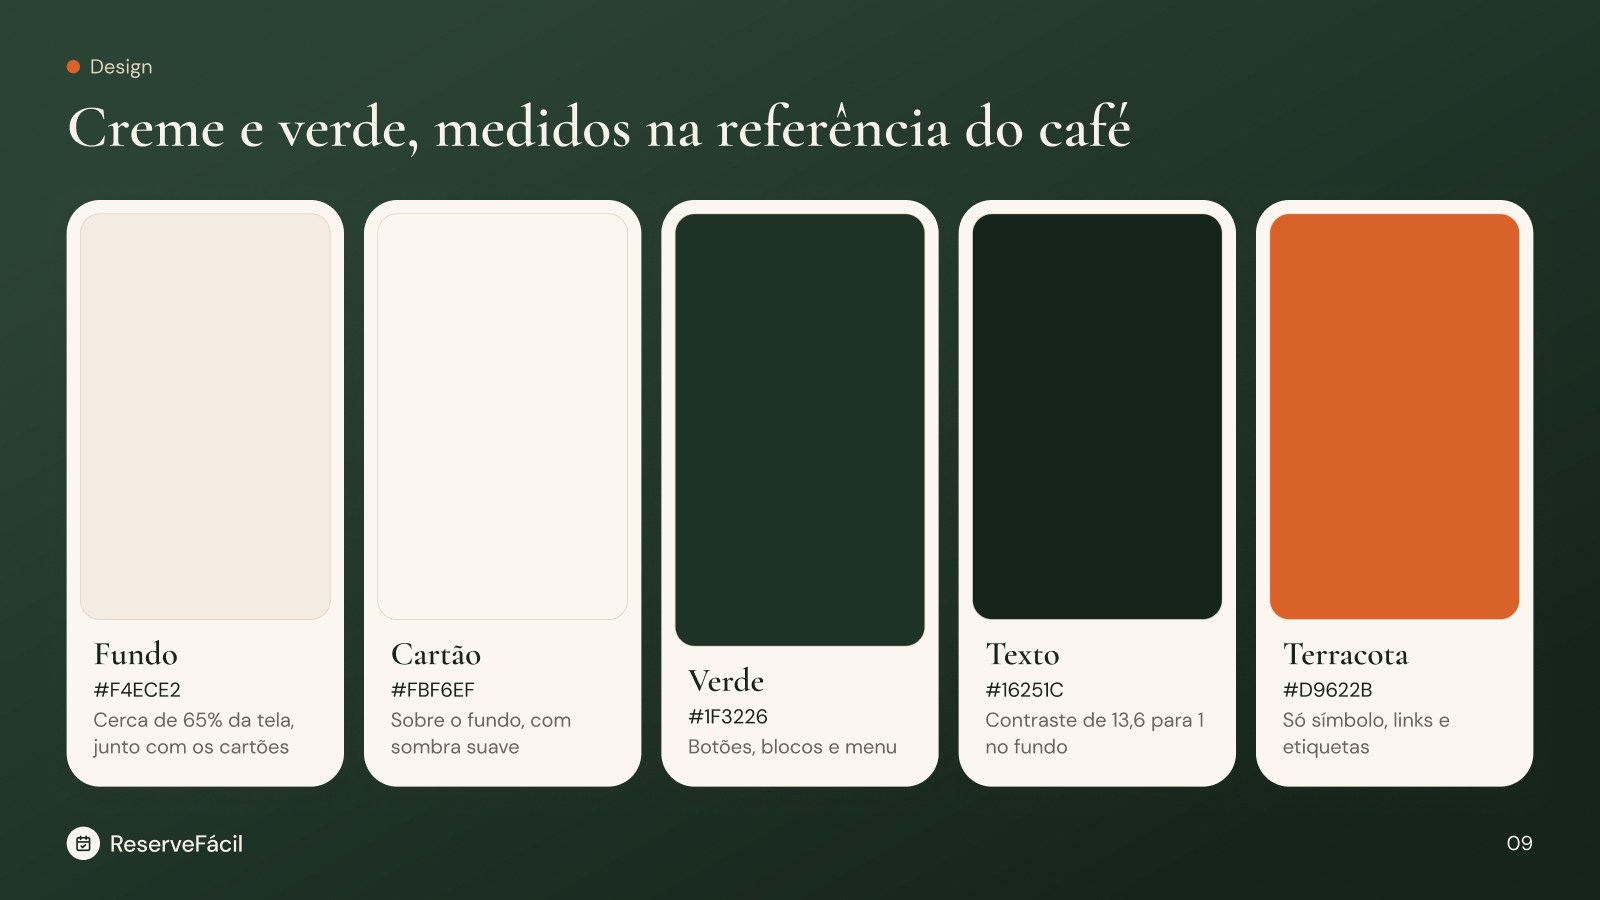
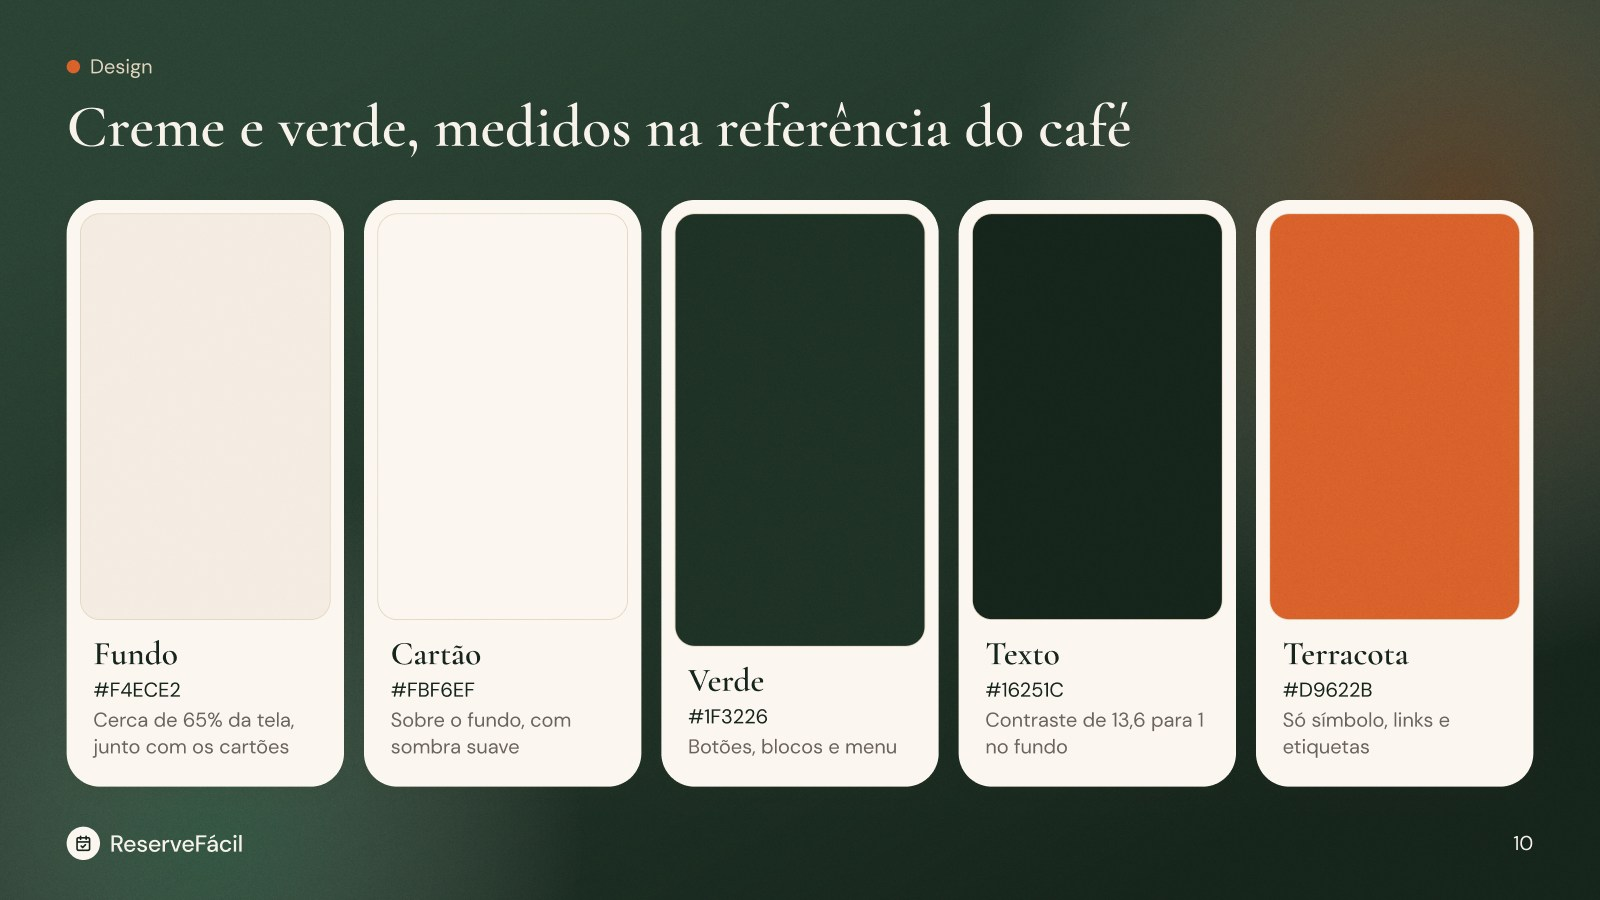
docs: make version 2 official with dark mode and new slides
The owner approved the richer version: tablet landscape staff screens,
dark mode, new cover and 13 slides. Record decision 15, refresh the
README images and document the new design system pieces. The previous
Figma pages stay as backup.

Changed region(s): [[0.7188, 0.0, 1.0, 0.5289], [0.0, 0.84, 0.2812, 1.0]]

diff --git a/pipeline/STATE.md b/pipeline/STATE.md
@@ -4,7 +4,7 @@ Leia antes de qualquer tarefa. Atualize ao fim de cada sessão.
 
 **Onde parou:** etapa 1 aprovada pelo dono em [vision.md](01-problem-and-vision/vision.md); etapa 2 aprovada em [journeys.md](02-journeys/journeys.md). Marca Ulivo definida ([decisão 1](decisions/interface/0001-marca-ulivo-cores-e-fontes.md)).
 
-**Próximo passo:** alta fidelidade das 17 telas aprovada pelo dono em 09/11/2026 ([decisão 13](decisions/interface/0013-alta-fidelidade-aprovada-destaque-verde.md)). Capa e apresentação de 12 slides prontas no Figma. O protótipo clicável foi dispensado ([decisão 14](decisions/processo-de-trabalho/0014-prototipo-sem-cliques-e-alvo-de-toque.md)) e o resto ficou para a [próxima versão](04e-high-fidelity/proxima-versao.md). Etapa 3 aprovada em [scope.md](03-mvp-scope/scope.md).
+**Próximo passo:** versão 2 oficial na capa, nas telas (claro e escuro) e nos 13 slides ([decisão 15](decisions/interface/0015-versao-2-oficial-com-modo-escuro.md)). A versão anterior fica nas páginas de backup do Figma. O que falta está na [próxima versão](04e-high-fidelity/proxima-versao.md). Etapa 3 aprovada em [scope.md](03-mvp-scope/scope.md).
 
 | Etapa | Estado | Data |
 |---|---|---|
@@ -18,4 +18,4 @@ Leia antes de qualquer tarefa. Atualize ao fim de cada sessão.
 | 8. Testes | aguardando | |
 | 9. Entrega | aguardando | |
 
-**Decisões em vigor:** [1](decisions/interface/0001-marca-ulivo-cores-e-fontes.md), [2](decisions/produto/0002-saas-reservafacil-prototipo-para-o-ulivo.md), [3](decisions/produto/0003-aviso-ao-cliente-por-whatsapp.md), [4](decisions/processo-de-trabalho/0004-projeto-termina-no-prototipo-de-alta-fidelidade.md), [5](decisions/produto/0005-escopo-agora-so-o-que-o-pdf-exige.md), [6](decisions/produto/0006-login-por-perfil-e-regra-de-negocio.md), [7](decisions/interface/0007-design-system-com-variaveis-e-dois-modos.md), [8](decisions/interface/0008-laranja-so-destaque-botao-principal-verde.md), [9](decisions/interface/0009-alta-fidelidade-com-vidro-e-fotos.md), [10](decisions/interface/0010-composicao-rica-nas-telas.md), [12](decisions/interface/0012-creme-e-verde-medidos-na-referencia-do-cafe.md), [13](decisions/interface/0013-alta-fidelidade-aprovada-destaque-verde.md), [14](decisions/processo-de-trabalho/0014-prototipo-sem-cliques-e-alvo-de-toque.md). **Pendências do dono:** nenhuma.
+**Decisões em vigor:** [1](decisions/interface/0001-marca-ulivo-cores-e-fontes.md), [2](decisions/produto/0002-saas-reservafacil-prototipo-para-o-ulivo.md), [3](decisions/produto/0003-aviso-ao-cliente-por-whatsapp.md), [4](decisions/processo-de-trabalho/0004-projeto-termina-no-prototipo-de-alta-fidelidade.md), [5](decisions/produto/0005-escopo-agora-so-o-que-o-pdf-exige.md), [6](decisions/produto/0006-login-por-perfil-e-regra-de-negocio.md), [7](decisions/interface/0007-design-system-com-variaveis-e-dois-modos.md), [8](decisions/interface/0008-laranja-so-destaque-botao-principal-verde.md), [9](decisions/interface/0009-alta-fidelidade-com-vidro-e-fotos.md), [10](decisions/interface/0010-composicao-rica-nas-telas.md), [12](decisions/interface/0012-creme-e-verde-medidos-na-referencia-do-cafe.md), [13](decisions/interface/0013-alta-fidelidade-aprovada-destaque-verde.md), [14](decisions/processo-de-trabalho/0014-prototipo-sem-cliques-e-alvo-de-toque.md), [15](decisions/interface/0015-versao-2-oficial-com-modo-escuro.md). **Pendências do dono:** nenhuma.

diff --git a/README.md b/README.md
@@ -16,15 +16,17 @@ Este repositório é um trabalho da faculdade e termina no protótipo de alta fi
 
 | O quê | Link |
 |---|---|
-| Capa | [Abrir](https://www.figma.com/design/HXJrsNhPSf2iC8GyJBqwi2/ReserveFacil?node-id=98-4378) |
-| Alta fidelidade, 17 telas | [Abrir](https://www.figma.com/design/HXJrsNhPSf2iC8GyJBqwi2/ReserveFacil?node-id=27-16) |
-| Apresentação, 12 slides | [Abrir](https://www.figma.com/design/HXJrsNhPSf2iC8GyJBqwi2/ReserveFacil?node-id=95-167) |
+| Capa | [Abrir](https://www.figma.com/design/HXJrsNhPSf2iC8GyJBqwi2/ReserveFacil?node-id=107-6054) |
+| Alta fidelidade, 17 telas | [Modo claro](https://www.figma.com/design/HXJrsNhPSf2iC8GyJBqwi2/ReserveFacil?node-id=107-2298) e [modo escuro](https://www.figma.com/design/HXJrsNhPSf2iC8GyJBqwi2/ReserveFacil?node-id=114-2310) |
+| Apresentação, 13 slides | [Abrir](https://www.figma.com/design/HXJrsNhPSf2iC8GyJBqwi2/ReserveFacil?node-id=107-5186) |
 | Design system | [Abrir](https://www.figma.com/design/HXJrsNhPSf2iC8GyJBqwi2/ReserveFacil?node-id=22-2) |
 | Wireframe | [Abrir](https://www.figma.com/design/HXJrsNhPSf2iC8GyJBqwi2/ReserveFacil?node-id=5-26) |
 
 ## O problema
 
 Restaurantes que recebem pedidos por telefone, mensagem ou no balcão sofrem com reservas duplicadas, informação perdida e dificuldade para alterar ou cancelar. O ReserveFácil reúne tudo num sistema só.
+
+![O problema](docs/img/problema.jpg)
 
 ## As telas
 
@@ -40,6 +42,10 @@ Restaurantes que recebem pedidos por telefone, mensagem ou no balcão sofrem com
 
 ![Telas do gerente](docs/img/telas-gerente.jpg)
 
+## Modo escuro
+
+![Modo claro e modo escuro](docs/img/modo-escuro.jpg)
+
 ## Casos de uso
 
 Diagramas originais do levantamento de requisitos ([texto completo](docs/requisitos-reservefacil.md)).
@@ -50,7 +56,7 @@ Diagramas originais do levantamento de requisitos ([texto completo](docs/requisi
 
 ## Design
 
-Creme e verde, com as cores medidas nas referências do café ([decisão 12](pipeline/decisions/interface/0012-creme-e-verde-medidos-na-referencia-do-cafe.md)). Detalhes em [docs/design-system.md](docs/design-system.md).
+Creme e verde, com as cores medidas nas referências do café ([decisão 12](pipeline/decisions/interface/0012-creme-e-verde-medidos-na-referencia-do-cafe.md)), com modo escuro e painéis ricos ([decisão 15](pipeline/decisions/interface/0015-versao-2-oficial-com-modo-escuro.md)). Detalhes em [docs/design-system.md](docs/design-system.md).
 
 ![Cores do produto](docs/img/cores.jpg)
 
@@ -60,7 +66,7 @@ Creme e verde, com as cores medidas nas referências do café ([decisão 12](pip
 
 ![Primeiro slide da apresentação](docs/img/apresentacao-capa.jpg)
 
-São 12 slides para apresentar o produto, com o roteiro de fala em [apresentacao.md](pipeline/04e-high-fidelity/apresentacao.md).
+São 13 slides para apresentar o produto, com o roteiro de fala em [apresentacao.md](pipeline/04e-high-fidelity/apresentacao.md).
 
 ## Próxima versão
 

diff --git a/pipeline/decisions/interface/0015-versao-2-oficial-com-modo-escuro.md b/pipeline/decisions/interface/0015-versao-2-oficial-com-modo-escuro.md
@@ -1,0 +1,31 @@
+---
+numero: 15
+titulo: Versão 2 oficial, com painéis ricos e modo escuro
+data: 2026-11-09
+estado: em-vigor
+links: [https://www.figma.com/design/HXJrsNhPSf2iC8GyJBqwi2/ReserveFacil?node-id=107-2298]
+substitui: []
+substituida_por: []
+relacionadas: [12, 13, 14]
+---
+
+# 15. Versão 2 oficial, com painéis ricos e modo escuro
+
+**Estado:** em vigor. Relacionada à [12](0012-creme-e-verde-medidos-na-referencia-do-cafe.md), à [13](0013-alta-fidelidade-aprovada-destaque-verde.md) e à [14](../processo-de-trabalho/0014-prototipo-sem-cliques-e-alvo-de-toque.md).
+
+**Links:** [Alta fidelidade](https://www.figma.com/design/HXJrsNhPSf2iC8GyJBqwi2/ReserveFacil?node-id=107-2298), [modo escuro](https://www.figma.com/design/HXJrsNhPSf2iC8GyJBqwi2/ReserveFacil?node-id=114-2310), [apresentação](https://www.figma.com/design/HXJrsNhPSf2iC8GyJBqwi2/ReserveFacil?node-id=107-5186)
+
+## Decisão
+
+A versão 2 é a oficial na capa, nas telas e nos slides. A versão anterior fica como backup nas últimas páginas do Figma.
+
+- **Telas do atendente** em tablet deitado, 1366 x 1024. A Nova reserva vira um fluxo único: quem e quando, escolha da mesa e um bilhete de resumo ao lado.
+- **Painéis** com indicadores em degradê, medidores circulares, gráfico de área preenchido e tabelas com ícone, avatar, barra e etiqueta em todas as telas.
+- **Gráfico de área** mostra o balão com duas linhas tracejadas no ponto. **Medidor circular** começa em degradê.
+- **Modo escuro** como terceiro modo de cor, com fotos noturnas, camadas de profundidade, luzes, grão e tons de sálvia e latão. O brilho é discreto, porque é um restaurante.
+- **Modo claro** com o mesmo acabamento, em tons quentes.
+- **Foto em cartão** some por transparência real na própria imagem, sem faixa de cor por cima.
+
+## Por quê
+
+O dono pediu um design mais vivo, inspirado na capa do painel azul das referências, no portfólio verde e no pack de artes, sem mudar a identidade. Depois de revisar, disse que ficou excelente e pediu que esta versão fosse a oficial.

diff --git a/pipeline/04e-high-fidelity/apresentacao.md b/pipeline/04e-high-fidelity/apresentacao.md
@@ -1,6 +1,6 @@
 # Apresentação do produto
 
-Página "Apresentação" no [Figma](https://www.figma.com/design/HXJrsNhPSf2iC8GyJBqwi2/ReserveFacil?node-id=95-167). São 12 slides em 1920 x 1080, no estilo da apresentação do iCloset e feitos com o design system. Para apresentar, abra a página e use o modo de apresentação do Figma.
+Página "Apresentação" no [Figma](https://www.figma.com/design/HXJrsNhPSf2iC8GyJBqwi2/ReserveFacil?node-id=107-5186). São 13 slides em 1920 x 1080, feitos com o design system. Para apresentar, abra a página e use o modo de apresentação do Figma. A versão anterior está em "Backup: Apresentação".
 
 | Slide | O que falar |
 |---|---|
@@ -12,9 +12,10 @@ Página "Apresentação" no [Figma](https://www.figma.com/design/HXJrsNhPSf2iC8G
 | 06 Jornada | O cliente vê a próxima reserva, escolhe a mesa, confirma, recebe no WhatsApp e acompanha. |
 | 07 Atendente | Reservas do dia no tablet, com check-in e ausência, e nova reserva para quem liga. |
 | 08 Gerente | Mesas e relatórios no computador. |
-| 09 Cores | Creme e verde medidos na referência do café. Terracota só em detalhes. |
-| 10 Design system | Duas fontes, 26 famílias de componentes, 48 ícones e grade de 4. |
-| 11 Garantias | Sem duplicidade, capacidade, tolerância, aviso, privacidade e perfis. |
-| 12 Encerramento | Agradecimento e o que vem na próxima versão. |
+| 09 Modo escuro | O mesmo produto de dia e à noite, com fotos noturnas. |
+| 10 Cores | Creme e verde medidos na referência do café. Terracota só em detalhes. |
+| 11 Design system | Duas fontes, 27 famílias de componentes, 48 ícones e grade de 4. |
+| 12 Garantias | Sem duplicidade, capacidade, tolerância, aviso, privacidade e perfis. |
+| 13 Encerramento | Agradecimento e o que vem na próxima versão. |
 
 Os diagramas dos slides 04 e 05 são as imagens originais extraídas do PDF do trabalho. O aviso por WhatsApp é simulado neste protótipo.

diff --git a/pipeline/04-wireframe/design-rules.md b/pipeline/04-wireframe/design-rules.md
@@ -7,7 +7,7 @@ Valem para o wireframe e a alta fidelidade. A marca está em [padrao-visual.md](
 | Quem | Aparelho | Tamanho |
 |---|---|---|
 | Cliente | celular | 390 x 960 |
-| Atendente | tablet | 1024 x 768 |
+| Atendente | tablet deitado | 1366 x 1024 |
 | Gerente | computador | 1440 x 900 |
 
 ## Wireframe
@@ -31,6 +31,10 @@ Cores medidas nas imagens de referência do café ([decisão 12](../decisions/in
 - **Quadro que contém sombra fica sem recorte.** Só a tela e o quadro arredondado com foto recortam.
 - **Fontes:** Cormorant Garamond para títulos e marca, DM Sans para o resto. Número com o algarismo 1 nunca em Cormorant: o 1 dela parece um I.
 - **Fotos com luz do dia**, fundo claro e cor quente. A foto do topo funde com o creme.
+
+## Versão 2 oficial
+
+Modo claro e modo escuro, com painéis ricos ([decisão 15](../decisions/interface/0015-versao-2-oficial-com-modo-escuro.md)). Foto em cartão some por transparência real. Brilho sempre discreto. Regras completas em [design-system.md](../../docs/design-system.md).
 
 ## Espaçamento (hierarquia, do menor para o maior)
 

diff --git a/pipeline/04e-high-fidelity/proxima-versao.md b/pipeline/04e-high-fidelity/proxima-versao.md
@@ -7,6 +7,7 @@ O dono aprovou a alta fidelidade em 09/11/2026 e deixou estes itens para uma ver
 - Desenhar os estados de erro e vazio. Os textos já estão em [lista-de-telas.md](../04-wireframe/lista-de-telas.md).
 - Subir para 44 os itens clicáveis do celular que têm menos. Hoje o botão redondo de voltar tem 40.
 - Modo de alto contraste.
+- Levar a composição rica das telas de painel para as de celular, se o dono pedir.
 
 ## Design system
 
@@ -16,6 +17,7 @@ O dono aprovou a alta fidelidade em 09/11/2026 e deixou estes itens para uma ver
 - Dar nome para código a 6 variáveis e descrição a 16 componentes.
 - Marcar as decisões 1 e 9 como substituídas em parte.
 - Apagar o quadro solto "periodo" da página de telas e atualizar a descrição do Menu inferior.
+- Retirar os componentes antigos e o "v2" dos nomes quando o backup deixar de ser necessário.
 
 ## Processo
 

diff --git a/pipeline/decisions/README.md b/pipeline/decisions/README.md
@@ -76,3 +76,4 @@ _Tabela gerada pelo índice. Não editar à mão._
 | [12](interface/0012-creme-e-verde-medidos-na-referencia-do-cafe.md) | Creme e verde medidos na referência do café | em vigor | [interface](interface/README.md) | 2026-11-08 |
 | [13](interface/0013-alta-fidelidade-aprovada-destaque-verde.md) | Alta fidelidade aprovada, destaque verde e campos com ícone | em vigor | [interface](interface/README.md) | 2026-11-09 |
 | [14](processo-de-trabalho/0014-prototipo-sem-cliques-e-alvo-de-toque.md) | Protótipo sem cliques e alvo de toque só em itens clicáveis | em vigor | [processo-de-trabalho](processo-de-trabalho/README.md) | 2026-11-09 |
+| [15](interface/0015-versao-2-oficial-com-modo-escuro.md) | Versão 2 oficial, com painéis ricos e modo escuro | em vigor | [interface](interface/README.md) | 2026-11-09 |

diff --git a/pipeline/04-wireframe/lista-de-telas.md b/pipeline/04-wireframe/lista-de-telas.md
@@ -2,7 +2,7 @@
 
 Etapa 4, partes A e B. Lista aprovada pelo dono em 08/11/2026. Desenhos no Figma, página Wireframe: [Wireframe](https://www.figma.com/design/HXJrsNhPSf2iC8GyJBqwi2/ReserveFacil?node-id=5-26). Escopo: [scope.md](../03-mvp-scope/scope.md). Cada tela tem uma nota amarela no desenho com os erros e estados vazios.
 
-Formatos: cliente em celular (390 de largura; a altura varia porque a tela rola), atendente em tablet (1024 x 900 e 1024 x 1020) e gerente em computador (1440 x 1000 e 1440 x 1120). A tela 17 entrou na alta fidelidade, junto com a aba Perfil.
+Formatos: cliente em celular (390 de largura; a altura varia porque a tela rola), atendente em tablet deitado (1366 x 1024) e gerente em computador (1440 de largura). A tela 17 entrou na alta fidelidade, junto com a aba Perfil.
 
 ## Lista de telas
 

diff --git a/docs/assets.md b/docs/assets.md
@@ -11,7 +11,9 @@ Fotos e mockups do restaurante fictício Ulivo, na seção **Assets** da página
 - **Nome da camada:** `foto/assunto` ou `mockup/assunto`, minúsculas e sem acento.
 - **Uso nas telas:** a foto entra como preenchimento de um quadro. No topo da tela, funde com o creme. Em bloco verde, funde com o verde.
 
-## Imagens (18)
+## Imagens (22) e textura
+
+Para a versão 2: `foto/sino`, `foto/telefone`, `foto/caderno` e `foto/placas`, sobre verde profundo, e `textura/grao`, a textura aplicada sobre as telas. No modo escuro entram as fotos noturnas.
 
 As 8 mais novas, de dia, são as usadas nas telas: `foto/hero-dia`, `foto/salao-dia`, `foto/bar-dia`, `foto/varanda-dia`, `foto/massa-dia`, `foto/sobremesa-dia`, `foto/vinho-dia` e `foto/fachada-dia`. A tabela abaixo lista as 10 originais, noturnas.
 

diff --git a/pipeline/04b-visual-references/references.md b/pipeline/04b-visual-references/references.md
@@ -15,6 +15,9 @@ Limite conhecido: a pesquisa completa do [roteiro](prompt.md) (15 a 24 candidata
 | Sparrow Table | O laranja como ponto de destaque | Laranja em áreas grandes |
 | Luma | Fotos do restaurante aplicadas | Fundo preto |
 | Vision UI | Composição do painel: indicadores, gráfico de área, tabela sem linhas pesadas, item ativo em pílula clara | Fundo preto |
+| Capa do painel azul | Medidores, gráficos preenchidos e foto integrada ao cartão | O azul |
+| Portfólio verde (comunidade Figma) | Telas em 3D, grão, luzes e vários tons dentro do verde | Brilho forte |
+| Pack de artes (comunidade Figma) | Objetos em destaque e título forte nas capas | Cores e personagens |
 
 ## Cores amostradas por script
 

diff --git a/pipeline/decisions/interface/README.md b/pipeline/decisions/interface/README.md
@@ -14,3 +14,4 @@ _Tabela gerada pelo índice. Não editar à mão._
 | [11](0011-tema-escuro-na-alta-fidelidade.md) | Tema escuro na alta fidelidade | substituída | 2026-11-08 |
 | [12](0012-creme-e-verde-medidos-na-referencia-do-cafe.md) | Creme e verde medidos na referência do café | em vigor | 2026-11-08 |
 | [13](0013-alta-fidelidade-aprovada-destaque-verde.md) | Alta fidelidade aprovada, destaque verde e campos com ícone | em vigor | 2026-11-09 |
+| [15](0015-versao-2-oficial-com-modo-escuro.md) | Versão 2 oficial, com painéis ricos e modo escuro | em vigor | 2026-11-09 |
